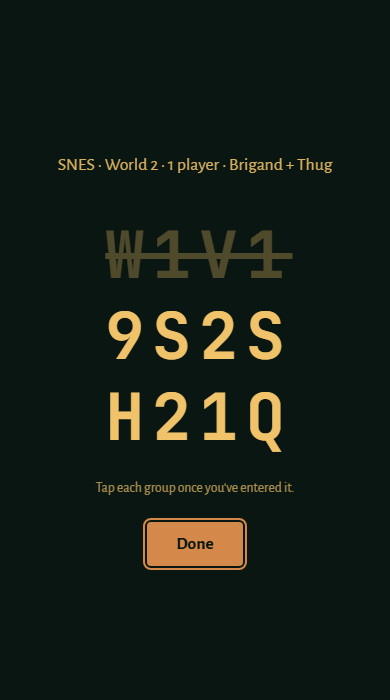
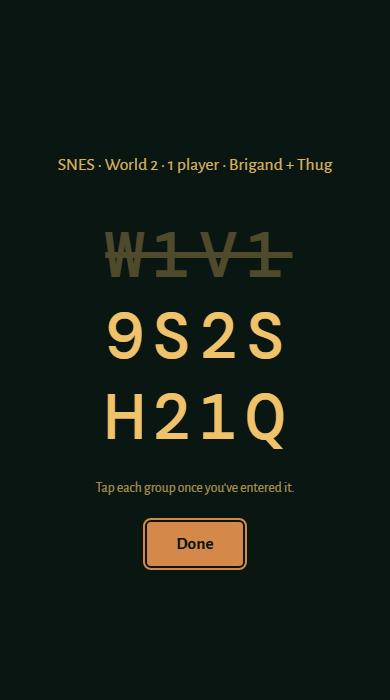
Generator: centered header, steppers, per-player Max, new fonts, footer
- Center the logo, title and subtitle; drop the "Which version do I have?" box
- Copy buttons read "Copied ✓" briefly
- −/+ buttons beside the lives and level sliders, and a Max button per player's money
- Headings in Alegreya ExtraBold, the password in DM Mono
- Footer with a GitHub link to the repo and the version (v1.0.0)
- Google Analytics tag
- README screenshots refreshed

diff --git a/tools/sof_password_generator.html b/tools/sof_password_generator.html
@@ -3,28 +3,37 @@
 <meta charset="utf-8">
 <meta name="viewport" content="width=device-width, initial-scale=1">
 <title>Soldiers of Fortune Password Generator</title>
+<!-- Google Analytics -->
+<script async src="https://www.googletagmanager.com/gtag/js?id=G-7G24W1MV8P"></script>
+<script>
+  window.dataLayer = window.dataLayer || [];
+  function gtag(){dataLayer.push(arguments);}
+  gtag('js', new Date());
+
+  gtag('config', 'G-7G24W1MV8P');
+</script>
 <link rel="preconnect" href="https://fonts.googleapis.com">
-<link rel="stylesheet" href="https://fonts.googleapis.com/css2?family=Alegreya+SC:wght@500;700&family=Alegreya+Sans:wght@400;500;700&family=JetBrains+Mono:wght@500;700&display=swap">
+<link rel="stylesheet" href="https://fonts.googleapis.com/css2?family=Alegreya:wght@800&family=Alegreya+Sans:wght@400;500;700&family=DM+Mono:wght@500&display=swap">
 <style>
 /* Layout: one column; the password plate is up top, then two player columns of settings (they stack on a phone) */
 :root {
   /* "Chaos green": always dark, bottle green with copper controls and a gold password plate */
   --bg: #12241d; --panel: #1a3128; --ink: #e6e2cf; --muted: #9fb0a2; --line: #2c4a3c;
   --brass: #d4894a; --brass-soft: #3a2a1b; --plate: #0a1611; --plate-ink: #f0c36a; --bad: #f07a62;
-  --display: "Alegreya SC", Georgia, serif; --body: "Alegreya Sans", system-ui, sans-serif;
-  --mono: "JetBrains Mono", ui-monospace, Consolas, monospace; color-scheme: dark;
+  --display: "Alegreya", Georgia, serif; --body: "Alegreya Sans", system-ui, sans-serif;
+  --mono: "DM Mono", ui-monospace, Consolas, monospace; color-scheme: dark;
 }
 [hidden] { display: none !important; }  /* .seg and .mini set display, which would otherwise override hidden */
 body { background: var(--bg); color: var(--ink); font: 16px/1.5 var(--body); }
-.wrap { max-width: 860px; margin: 0 auto; padding-inline: 16px; padding-block: 28px 48px; display: grid; gap: 24px; }
-h1 { font: 700 clamp(1.7rem, 5vw, 2.4rem)/1.1 var(--display); margin: 0; letter-spacing: .02em; text-wrap: balance;
-  display: flex; flex-direction: column; align-items: flex-start; gap: 10px; }
+.wrap { max-width: 860px; margin: 0 auto; padding-inline: 16px; padding-block: 28px 24px; display: grid; gap: 24px; }
+h1 { font: 800 clamp(1.7rem, 5vw, 2.4rem)/1.1 var(--display); margin: 0; letter-spacing: .02em; text-wrap: balance;
+  display: flex; flex-direction: column; align-items: center; text-align: center; gap: 10px; }
 h1 img { display: block; width: auto; height: auto; max-width: 100%; max-height: 110px; }
 .sub { color: var(--muted); margin: 6px 0 0; max-width: 62ch; }
 .plate { background: var(--plate); color: var(--plate-ink); border-radius: 6px; padding: 20px; display: grid; gap: 14px;
   box-shadow: inset 0 0 0 1px color-mix(in srgb, var(--plate-ink) 25%, transparent); }
 .plate-label { font: 500 .75rem var(--body); letter-spacing: .14em; text-transform: uppercase; opacity: .75; }
-.code { font: 700 clamp(1.5rem, 7vw, 2.6rem)/1 var(--mono); letter-spacing: .12em; display: flex; flex-wrap: wrap; gap: .1em .6em; }
+.code { font: 500 clamp(1.5rem, 7vw, 2.6rem)/1 var(--mono); letter-spacing: .12em; display: flex; flex-wrap: wrap; gap: .1em .6em; }
 .plate-row { display: flex; flex-wrap: wrap; gap: 10px; align-items: center; }
 button { font: 500 .95rem var(--body); border-radius: 4px; padding: 8px 14px; cursor: pointer; border: 1px solid var(--line); background: var(--panel); color: var(--ink); }
 button:hover { border-color: var(--brass); }
@@ -33,7 +42,7 @@ button:focus-visible, input:focus-visible { outline: 2px solid var(--brass); out
 .plate .ghost { background: transparent; color: var(--plate-ink); border-color: color-mix(in srgb, var(--plate-ink) 40%, transparent); font-weight: 500; }
 .status { font-size: .9rem; opacity: .85; }
 section { display: grid; gap: 12px; }
-h2 { font: 700 1.15rem var(--display); margin: 0; letter-spacing: .03em; }
+h2 { font: 800 1.15rem var(--display); margin: 0; letter-spacing: .03em; }
 .row { display: flex; flex-wrap: wrap; gap: 8px 16px; align-items: center; }
 .seg { display: inline-flex; border: 1px solid var(--line); border-radius: 4px; overflow: hidden; }
 .seg label { padding: 6px 14px; cursor: pointer; background: var(--panel); border-left: 1px solid var(--line); }
@@ -46,7 +55,7 @@ h2 { font: 700 1.15rem var(--display); margin: 0; letter-spacing: .03em; }
 .card { background: var(--panel); border: 1px solid var(--line); border-radius: 6px; padding: 16px; display: grid; gap: 14px; min-width: 0; align-content: start; }
 .field { display: grid; gap: 4px; }
 .field > span { font-size: .78rem; letter-spacing: .1em; text-transform: uppercase; color: var(--muted); display: flex; justify-content: space-between; gap: 8px; }
-.field output { font: 700 .9rem var(--mono); color: var(--ink); letter-spacing: 0; text-transform: none; }
+.field output { font: 500 .9rem var(--mono); color: var(--ink); letter-spacing: 0; text-transform: none; }
 input[type=number], input[type=text] { font: 1rem var(--body); padding: 7px 9px; border-radius: 4px; border: 1px solid var(--line); background: var(--bg); color: var(--ink); width: 100%; box-sizing: border-box; }
 input[type=range] { width: 100%; accent-color: var(--brass); }
 .shop summary { color: var(--muted); font-size: .9rem; }
@@ -71,13 +80,20 @@ table { border-collapse: collapse; font-size: .88rem; }
 td, th { border-bottom: 1px solid var(--line); padding: 4px 10px 4px 0; text-align: left; vertical-align: top; }
 .tw { overflow-x: auto; }
 .summary { font-size: .95rem; opacity: .9; }
-.versions ul { margin: 6px 0 0; padding-left: 1.2em; }
 .decode { display: grid; gap: 8px; }
-#perr:empty { display: none; }  /* no blank gap under the decoder until there's an error */
-.decode .err button { margin: 4px 6px 0 0; font: 700 .85rem var(--mono); letter-spacing: .08em; }
+#perr:empty { display: none; }
+header { text-align: center; }
+header .sub { margin-inline: auto; }
+.stepper { display: grid; grid-template-columns: auto 1fr auto; gap: 8px; align-items: center; }
+.stepper button, .money button { padding: 2px 11px; font-weight: 700; }
+.money { display: grid; grid-template-columns: 1fr auto; gap: 8px; }
+#copy, #mini_copy { min-width: 6.5em; }  /* room for "Copied ✓" without shifting the other buttons */
+footer { display: flex; justify-content: space-between; align-items: center; gap: 16px; font-size: .9rem; color: var(--muted); }
+footer a { color: var(--brass); text-decoration: none; display: inline-flex; align-items: center; gap: 8px; }  /* no blank gap under the decoder until there's an error */
+.decode .err button { margin: 4px 6px 0 0; font: 500 .85rem var(--mono); letter-spacing: .08em; }
 .mini { position: fixed; inset: 0 0 auto; z-index: 10; display: flex; align-items: center; justify-content: space-between; gap: 12px;
   padding: 8px 16px; background: var(--plate); color: var(--plate-ink); border-bottom: 1px solid color-mix(in srgb, var(--plate-ink) 25%, transparent); }
-.mini .mono { font-size: 1.15rem; font-weight: 700; letter-spacing: .12em; }
+.mini .mono { font-size: 1.15rem; font-weight: 500; letter-spacing: .12em; }
 .mini button { background: var(--brass); color: var(--plate); border-color: transparent; font-weight: 700; padding: 5px 12px; }
 h2 small { font: 500 .85rem var(--body); color: var(--muted); letter-spacing: 0; }
 /* big-text view for reading the password while typing it into the game */
@@ -88,7 +104,7 @@ h2 small { font: 500 .85rem var(--body); color: var(--muted); letter-spacing: 0;
 #big .summary { font-size: 1.1rem; }
 body:has(#big[open]) { overflow: hidden; }
 @media (max-width: 700px) { .big-code { flex-direction: column; } }
-.big-code { display: flex; flex-wrap: wrap; justify-content: center; gap: .15em .5em; font: 700 clamp(2.6rem, 13vw, 7rem)/1.1 var(--mono); letter-spacing: .12em; }
+.big-code { display: flex; flex-wrap: wrap; justify-content: center; gap: .15em .5em; font: 500 clamp(2.6rem, 13vw, 7rem)/1.1 var(--mono); letter-spacing: .12em; }
 .big-code button { font: inherit; letter-spacing: inherit; color: inherit; background: none; border: 0; padding: 0 0 0 .12em; }
 .big-code button[aria-pressed=true] { opacity: .3; text-decoration: line-through; }
 #big_close { background: var(--brass); color: var(--plate); border-color: transparent; font-weight: 700; font-size: 1.1rem; padding: 10px 28px; }
@@ -98,11 +114,6 @@ body:has(#big[open]) { overflow: hidden; }
   <header>
     <h1><img id="logo" alt="Soldiers of Fortune"><span>Password Generator</span></h1>
     <p class="sub">Build a password for any party, or paste one to see what it holds.</p>
-    <details class="versions"><summary>Which version do I have?</summary><ul>
-      <li><b>SNES:</b> <i>Soldiers of Fortune</i> (US) and <i>The Chaos Engine</i> (Europe) take the same passwords.</li>
-      <li><b>Genesis / Mega Drive:</b> the US and European cartridges also share passwords, but they're different from the SNES ones.</li>
-      <li><b>Amiga:</b> <i>The Chaos Engine</i>, original (A500) or AGA (A1200). Both take the same passwords, except that only the original accepts World 1.</li>
-    </ul></details>
   </header>
 
   <div class="row">
@@ -184,6 +195,8 @@ body:has(#big[open]) { overflow: hidden; }
     </table></div>
     <p>The SNES checksum is (sum of the 12 numbers − 66) mod 16. Money in the password is cash plus the value of your gear. On load the game subtracts the value of the gear you start with, so your spendable cash ends up a little lower than the figure here. "Lives" and "level" are names inferred from the code: lives start at 3 on a new game, and level goes up through the worlds.</p>
   </details>
+
+  <footer><a href="https://github.com/maxxthunder/soldiersoffortune"><svg viewBox="0 0 16 16" width="18" height="18" fill="currentColor" aria-hidden="true"><path d="M8 0c4.42 0 8 3.58 8 8a8.013 8.013 0 0 1-5.45 7.59c-.4.08-.55-.17-.55-.38 0-.27.01-1.13.01-2.2 0-.75-.25-1.23-.54-1.48 1.78-.2 3.65-.88 3.65-3.95 0-.88-.31-1.59-.82-2.15.08-.2.36-1.02-.08-2.12 0 0-.67-.22-2.2.82-.64-.18-1.32-.27-2-.27-.68 0-1.36.09-2 .27-1.53-1.03-2.2-.82-2.2-.82-.44 1.1-.16 1.92-.08 2.12-.51.56-.82 1.28-.82 2.15 0 3.06 1.86 3.75 3.64 3.95-.23.2-.44.55-.51 1.07-.46.21-1.61.55-2.33-.66-.15-.24-.6-.83-1.23-.82-.67.01-.27.38.01.53.34.19.73.9.82 1.13.16.45.68 1.31 2.69.94 0 .67.01 1.3.01 1.49 0 .21-.15.45-.55.38A7.995 7.995 0 0 1 0 8c0-4.42 3.58-8 8-8Z"/></svg>maxxthunder/soldiersoffortune</a><span>v1.0.0</span></footer>
 </div>
 
 <script>
@@ -308,9 +321,11 @@ else {
     <h2 id="p${p}_title">Player ${p}</h2>
     <div class="field"><span>Character</span><div class="chars" role="radiogroup" aria-label="Player ${p} character">${CHARS.map((c, i) =>
       `<label class="char"><input type="radio" name="p${p}_char" value="${i}"><img src="${SPRITES[i]}" alt="" width="64" height="64"><span>${c}</span></label>`).join("")}</div></div>
-    <label class="field"><span>Lives <output id="p${p}_lives_o"></output></span><input type="range" id="p${p}_lives" min="0" max="31"></label>
-    <label class="field"><span>Character level <output id="p${p}_stat_o"></output></span><input type="range" id="p${p}_stat" min="0" max="10"></label>
-    <label class="field"><span>Money</span><input type="number" id="p${p}_money" min="0" max="65534" step="2" inputmode="numeric"></label>
+    <label class="field"><span>Lives <output id="p${p}_lives_o"></output></span><div class="stepper">
+      <button type="button" data-step="-1" data-for="p${p}_lives" aria-label="Player ${p}: one fewer life">−</button><input type="range" id="p${p}_lives" min="0" max="31"><button type="button" data-step="1" data-for="p${p}_lives" aria-label="Player ${p}: one more life">+</button></div></label>
+    <label class="field"><span>Character level <output id="p${p}_stat_o"></output></span><div class="stepper">
+      <button type="button" data-step="-1" data-for="p${p}_stat" aria-label="Player ${p}: level down">−</button><input type="range" id="p${p}_stat" min="0" max="10"><button type="button" data-step="1" data-for="p${p}_stat" aria-label="Player ${p}: level up">+</button></div></label>
+    <label class="field"><span>Money</span><div class="money"><input type="number" id="p${p}_money" min="0" max="65534" step="2" inputmode="numeric"><button type="button" data-max="p${p}_money" aria-label="Player ${p}: maximum money">Max</button></div></label>
     <details class="shop" id="p${p}_shop"><summary>Shopping list</summary>
       <p class="hint">Passwords keep money, not items. Pick what to buy at the first shop and set the money to cover it.</p>
       ${SHOP.map(([group, items]) => `<div class="shop-group">${group}</div>` + items.map(([name, price], i) =>
@@ -393,6 +408,12 @@ else {
     if (t.value !== fixed) { t.value = fixed; t.dispatchEvent(new Event("input", { bubbles: true })); }
   });
   document.querySelector(".players").addEventListener("click", e => {
+    const { step, max } = e.target.dataset;
+    if (step || max) {  // −/+ beside a slider, or Max beside the money (range inputs clamp the value themselves)
+      const t = $(e.target.dataset.for || max);
+      t.value = max ? t.max : +t.value + +step;
+      e.preventDefault(); render(); return;
+    }
     const p = e.target.dataset.shop;
     if (!p) return;
     const total = shopTotal(p);
@@ -400,9 +421,15 @@ else {
     render();
     $("status").textContent = total > 65534 ? `Player ${p}: the list costs ${total}, more than the 65534 a password can hold.` : "";
   });
+  let copiedTimer;
+  const showCopied = () => {  // both Copy buttons read "Copied ✓" for a moment
+    for (const b of [$("copy"), $("mini_copy")]) b.textContent = "Copied ✓";
+    clearTimeout(copiedTimer);
+    copiedTimer = setTimeout(() => { for (const b of [$("copy"), $("mini_copy")]) b.textContent = "Copy"; }, 1500);
+  };
   $("copy").onclick = () => {
     const pw = $("code").textContent;
-    navigator.clipboard.writeText(pw).then(() => $("status").textContent = "Copied",
+    navigator.clipboard.writeText(pw).then(showCopied,
       () => { getSelection().selectAllChildren($("code")); $("status").textContent = "Selected. Press Ctrl+C to copy."; });
   };
   $("max").onclick = () => { const f = read(); write({ ...f, p1_lives: 31, p2_lives: 31, p1_stat: 10, p2_stat: 10, p1_money: 65534, p2_money: 65534 }); };
